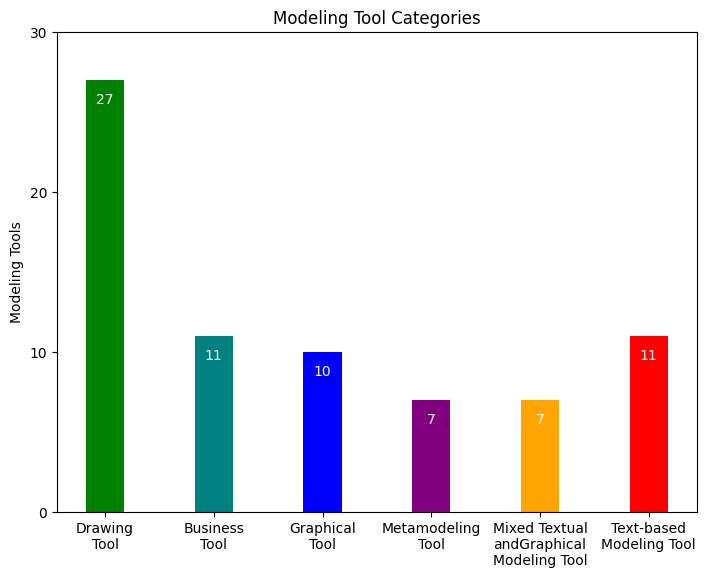
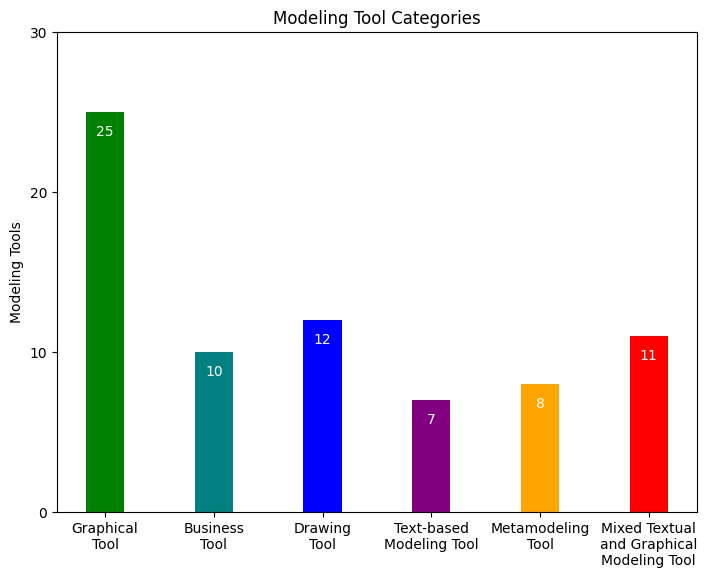
[statistics_generator] Mixed labels in categories fixed

diff --git a/statistics_generator/generators/boolean_statistics.py b/statistics_generator/generators/boolean_statistics.py
@@ -14,23 +14,26 @@ def generate_bool_graph(modeling_tools: [ModelingTool]):
     # OpenSource, WebApp, DesktopApp, LoginRequired, RealTimeCollaboration
     true_values: Tuple[int, int, int, int, int] = tuple(yes_no_counter[0])
     false_values: Tuple[int, int, int, int, int] = tuple(yes_no_counter[1])
+    unknown_values: Tuple[int, int, int, int, int] = tuple(yes_no_counter[2])
     ind = np.arange(N)  # the x locations for the groups
     width = 0.35
     fig = plt.figure()
     ax = fig.add_axes([0, 0, 1, 1])
     ax.bar(ind, true_values, width, color='#32de84')
     ax.bar(ind, false_values, width, bottom=true_values, color='r')
+    ax.bar(ind, unknown_values, width, bottom=72, color='#989898')
     ax.set_ylabel('Modeling Tools')
     ax.set_title('Modeling Tools based on yes/no properties')
     ax.set_xticks(ind, ('Open\nSource', 'Web\nApp', 'Desktop\nApp', 'Login\nRequired', 'Real Time\nCollaboration'))
-    ax.set_yticks(np.arange(0, 92, 10))
-    ax.legend(labels=['True', 'False'])
+    ax.set_yticks(np.arange(0, 103, 10))
+    ax.legend(labels=['True', 'False', 'Unknown'])
 
     # Add values
     for i in range(len(max(true_values, false_values))):
         # idk, idk, value, text position
-        plt.text(i, true_values[i] - 3, true_values[i], ha='center')
-        plt.text(i, 69 - 3, false_values[i], ha='center')
+        plt.text(i, true_values[i] - 5, true_values[i], ha='center')
+        plt.text(i, 73 - 5, false_values[i], ha='center')
+        plt.text(i, 73 + 1, unknown_values[i], ha='center')
 
     # Save and display the figure
     if not os.path.isdir('./graphics'):
@@ -39,9 +42,10 @@ def generate_bool_graph(modeling_tools: [ModelingTool]):
     plt.show()
 
 
-def count_yes_no_properties(modeling_tools: [ModelingTool]) -> [[int, int, int, int, int], [int, int, int, int, int]]:
+def count_yes_no_properties(modeling_tools: [ModelingTool]) \
+        -> [[int, int, int, int, int], [int, int, int, int, int], [int, int, int, int, int]]:
     # Open Source, Web App, Desktop App, Login Required, Real Time Collaboration
-    bool_counter: [[int]] = [[0, 0, 0, 0, 0], [0, 0, 0, 0, 0]]
+    bool_counter: [[int]] = [[0, 0, 0, 0, 0], [0, 0, 0, 0, 0], [0, 0, 0, 0, 0]]
 
     def increment_counter(value: bool, counter: [[int]], section: int):
         if value is not None:
@@ -49,6 +53,8 @@ def count_yes_no_properties(modeling_tools: [ModelingTool]) -> [[int, int, int, 
                 counter[0][section] = counter[0][section] + 1
             else:
                 counter[1][section] = counter[1][section] + 1
+        else:
+            counter[2][section] = counter[2][section] + 1
 
     for tool in modeling_tools:
         increment_counter(tool.get_open_source(), bool_counter, 0)

diff --git a/statistics_generator/generators/license.py b/statistics_generator/generators/license.py
@@ -10,8 +10,8 @@ def generate_licenses_graph(modeling_tools: [ModelingTool]):
     license_counter: [int] = count_licenses(modeling_tools)
 
     # Free, Freemium, Commercial
-    licenses: Tuple[int, int, int] = tuple(license_counter)
-    license_colors: Tuple[str, str, str] = ('yellow', 'orange', 'red')
+    licenses: Tuple[int, int, int, int] = tuple(license_counter)
+    license_colors: Tuple[str, str, str, str] = ('yellow', 'orange', 'red', '#989898')
 
     # the x locations for the groups
     N: int = len(licenses)
@@ -22,13 +22,16 @@ def generate_licenses_graph(modeling_tools: [ModelingTool]):
     ax.bar(ind, licenses, width, color=license_colors)
     ax.set_ylabel('Modeling Tools')
     ax.set_title('Modeling Tool Licenses')
-    ax.set_xticks(ind, ("Free", "Restricted free content,\ncommercial", "Commercial"))
+    ax.set_xticks(ind, ("Free", "Restricted free content,\ncommercial", "Commercial", "Unknown"))
     ax.set_yticks(np.arange(0, 40, 10))
 
     # Add values
     for i in range(len(licenses)):
         # idk, idk, value, text position
-        plt.text(i, licenses[i] - 1.5, licenses[i], ha='center')
+        if licenses[i] > 10:
+            plt.text(i, licenses[i] - 1.5, licenses[i], ha='center')
+        else:
+            plt.text(i, licenses[i] + 0.5, licenses[i], ha='center')
 
     # Save and display the figure
     if not os.path.isdir('./graphics'):
@@ -37,8 +40,8 @@ def generate_licenses_graph(modeling_tools: [ModelingTool]):
     plt.show()
 
 
-def count_licenses(modeling_tools: [ModelingTool]) -> [int]:
-    license_counter: [int] = [0, 0, 0]
+def count_licenses(modeling_tools: [ModelingTool]) -> [int, int, int, int]:
+    license_counter: [int] = [0, 0, 0, 0]
     for tool in modeling_tools:
         license: str = tool.get_license()
         if license == "FREE":
@@ -47,4 +50,6 @@ def count_licenses(modeling_tools: [ModelingTool]) -> [int]:
             license_counter[1] = license_counter[1] + 1
         elif license == "COMMERCIAL":
             license_counter[2] = license_counter[2] + 1
+        else:
+            license_counter[3] = license_counter[3] + 1
     return license_counter

diff --git a/statistics_generator/generators/categories.py b/statistics_generator/generators/categories.py
@@ -23,8 +23,11 @@ def generate_categories_graph(modeling_tools: [ModelingTool]):
     ax.bar(ind, licenses, width, color=license_colors)
     ax.set_ylabel('Modeling Tools')
     ax.set_title('Modeling Tool Categories')
-    ax.set_xticks(ind, ("Drawing\nTool", "Business\nTool", "Graphical\nTool", "Metamodeling\nTool",
-                        "Mixed Textual\nandGraphical\nModeling Tool", "Text-based\nModeling Tool",))
+    # ax.set_xticks(ind, ("Graphical\nTool", "Business\nTool", "Drawing\nTool", "Metamodeling\nTool",
+    #                    "Mixed Textual\nandGraphical\nModeling Tool", "Text-based\nModeling Tool",))
+
+    ax.set_xticks(ind, ("Graphical\nTool", "Business\nTool", "Drawing\nTool", "Text-based\nModeling Tool",
+                        "Metamodeling\nTool", "Mixed Textual\nand Graphical\nModeling Tool",))
     ax.set_yticks(np.arange(0, 40, 10))
 
     # Add values

diff --git a/statistics_generator/generators/modeling_tool_data_generator_reader.py b/statistics_generator/generators/modeling_tool_data_generator_reader.py
@@ -1,7 +1,8 @@
 import os
 import re
+import urllib.request
 
-path: str = r'../../backend/src/main/java/com/example/modeling_tools/datagenerator/ModelingToolDataGenerator.java'
+path: str = r'./../backend/src/main/java/com/example/modeling_tools/datagenerator/ModelingToolDataGenerator.java'
 
 
 class ModelingTool:
@@ -155,3 +156,11 @@ def read_modeling_tools() -> [ModelingTool]:
 def print_modeling_tools(modeling_tools: [ModelingTool]):
     for i, tool in enumerate(modeling_tools):
         print(f"{i + 1}. {tool.get_name()} {tool}")
+
+"""
+http_content = urllib.request.urlopen('http://localhost:8080/api/v1/modeling_tools')
+content_decoded = str(http_content.read(), 'UTF-8')
+pattern = re.compile("\{.*?\}")
+for tool in re.findall(pattern, content_decoded):
+    print(tool)
+"""

diff --git a/statistics_generator/main.py b/statistics_generator/main.py
@@ -17,5 +17,6 @@ if __name__ == "__main__":
 
     os.getcwd()
 
+    print(f'Found {len(modeling_tools)} modeling tools')
     print('Generated statistics for:\n  * True/False Values\n  * Categories\n  * Licenses\n  * Technologies')
     print(f'Output can be found in {os.getcwd()}\graphics')
